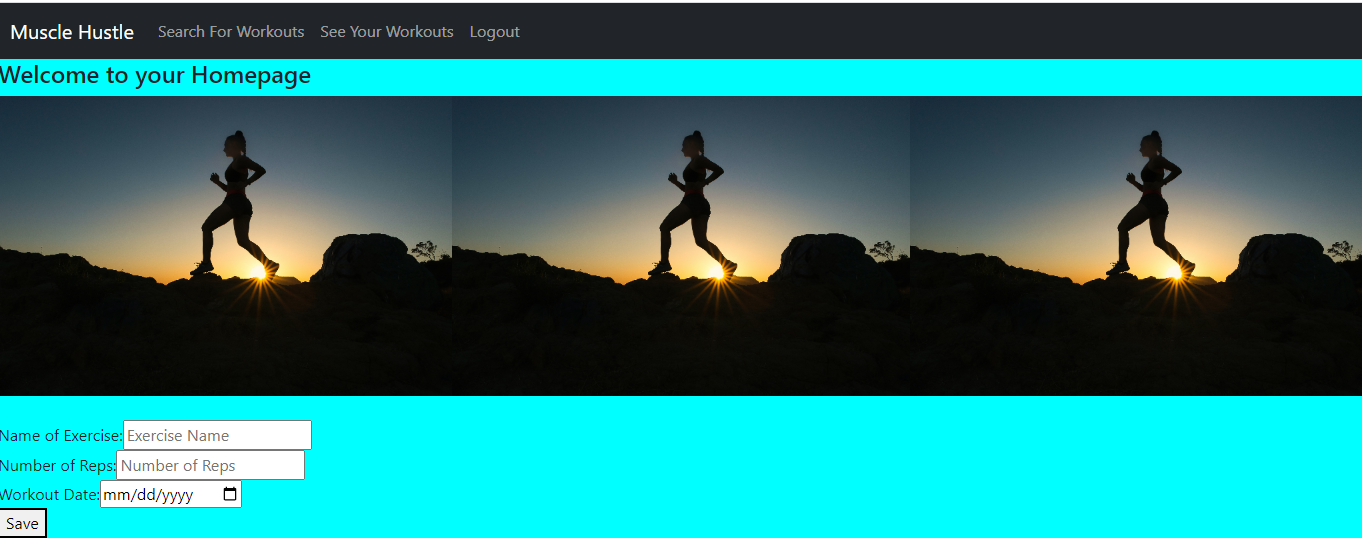
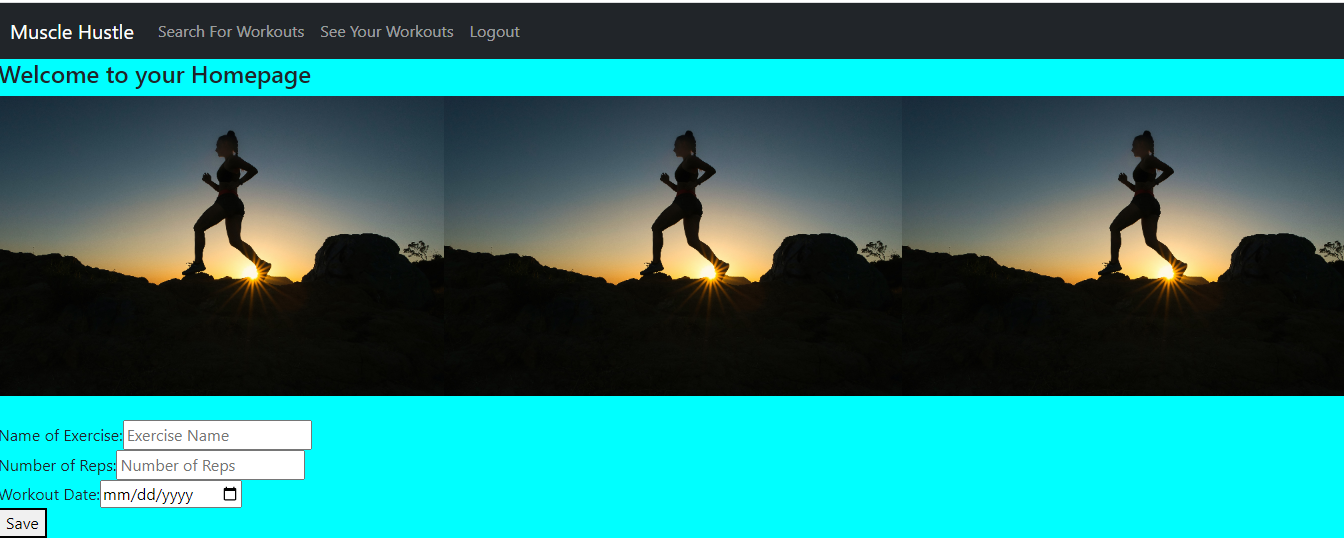
updated css file

diff --git a/src/components/Contact.js b/src/components/Contact.js
@@ -1,56 +1,113 @@
-import { useState } from "react";
+import React, { useState } from "react";
+// import { validateEmail } from "../../utils/helpers";
 
-export default function Contact() {
-  const [name, setName] = useState("");
-  const [email, setEmail] = useState("");
-  const [message, setMessage] = useState("");
-  const [nameMissing, setNameMissing] = useState(false)
+function Contact() {
+  // Hook that manages form data
+  //   initialize values of state, clear input fields on loading component
+  const [formState, setFormState] = useState({
+    name: "",
+    email: "",
+    message: "",
+  });
+
+  // Hook that manages email error message
+  const [errorMessage, setErrorMessage] = useState("");
+  // destructure formState obj into its properties
+  const { name, email, message } = formState;
+
+  function handleSubmit(e) {
+    e.preventDefault();
+
+    // state only updates if form data passed quality tests(no err message)
+    if (!errorMessage) {
+      //   async setFormState updates formState value for name
+      //   assign input field value to formState.name
+      // spread operator ...formState retains other key-value pairs in obj
+      // e.target.name is name attribute of form element, matches prop names of formState(name, email, message)
+      setFormState({ ...formState, [e.target.name]: e.target.value });
+      console.log("Form", formState);
+    }
+  }
+
+  //   sync internal state of component formState with user input from DOM
+  // onBlur or onChange event listener ensures this fires everytime keystroke typed into name field
+  // function handleChange(e) {
+  //   // if <input> is email, validate value with validateEmail, assign to isValid
+  //   if (e.target.name === "email") {
+  //     const isValid = validateEmail(e.target.value);
+  //     console.log(isValid);
+  //     // isValid conditional statement
+  //     if (!isValid) {
+  //       setErrorMessage("Your email is invalid.");
+  //     } else {
+  //       setErrorMessage("");
+  //     }
+  //     // if <input> is message and name form elements
+  //   } else {
+  //     // if blank, error message
+  //     if (!e.target.value.length) {
+  //       setErrorMessage(`${e.target.name} is required.`);
+  //     } else {
+  //       setErrorMessage("");
+  //     }
+  //   }
+
+  //   // console.log("errorMessage", errorMessage);
+  // }
+
+  // JSX DOM elements
   return (
-    <div>
-      <form>
-        <label>
-          Name:
+    <section>
+      <h1 data-testid="h1tag" className="h1tag">Contact me</h1>
+      <hr></hr>
+      <div className="email">      <h3>Email address:</h3>
+      <a href="mailto:jarmaris.chaney@yahoo.com">@jarmaris.chaney@yahoo.com</a>
+      </div>{/* <br></br>
+      <h1 data-testid="h1tag">Leave a Message</h1>
+      <form id="contact-form" onSubmit={handleSubmit}>
+        <div>
+          <label htmlFor="name">Name:</label>
           <input
-            value={name}
-            onChange={(e) => setName(e.target.value)}
-            onBlur={() => {
-            //   if (!name) {
-            //     alert("name is required");
-            //   }
-            setNameMissing(!name)
-            }}
+            type="text"
+            name="name"
+            defaultValue={name}
+            onBlur={handleChange}
           />
-          {nameMissing && "name is required"}
-        </label>
-        <label>
-          Email:
+        </div>
+        <div>
+          <label htmlFor="email">Email:</label>
           <input
-            value={email}
-            onChange={(e) => setEmail(e.target.value)}
-            onBlur={() => {
-              if (!email) {
-                alert("email is required");
-                return
-              }
-              if (!/^[a-zA-Z0-9]+@[a-zA-Z0-9]+\.[a-zA-Z0-9]+$/.test(email)) {
-                alert("email is invalid");
-              }
-            }}
+            type="email"
+            name="email"
+            defaultValue={email}
+            onBlur={handleChange}
           />
-        </label>
-        <label>
-          Message:
+        </div>
+        <div>
+          <label htmlFor="message">Message:</label>
           <textarea
-            value={message}
-            onChange={(e) => setMessage(e.target.value)}
-            onBlur={() => {
-              if (!message) {
-                alert("message is required");
-              }
-            }}
-          ></textarea>
-        </label>
-      </form>
-    </div>
+            name="message"
+            rows="5"
+            defaultValue={message}
+            onBlur={handleChange}
+          />
+        </div> */}
+        {/* if(errorMessage) {
+            <div>
+                <p className="error-text">{errorMessage}</p>
+            </div>
+        } */}
+        {/* {errorMessage && (
+          <div>
+            <p className="error-text">{errorMessage}</p>
+          </div>
+        )}
+        <button data-testid="button" type="submit">
+          Submit
+        </button>
+      </form> */}
+    </section>
   );
 }
+
+export default Contact;

diff --git a/src/App.css b/src/App.css
@@ -2,11 +2,18 @@ nav ul {
   display: flex;
   list-style: none;
   padding: 0;
+  font-weight: bold;
+  font-size: larger;
 }
 
 nav ul li {
   margin-right: 1rem;
   cursor: pointer;
+}
+
+.navbar{
+  background-color: rgb(211, 208, 208);
+  border: 2px solid black;
 }
 form, label {
   display: flex;
@@ -19,4 +26,66 @@ form, label {
 
 form {
   width: 35%;
+}
+.container {
+  background-color: powderblue;
+}
+
+.resumeContainer{
+  background-color: powderblue ;
+}
+
+.footer{
+  display: flex;
+  align-items: left;
+  justify-content: flex-start;
+  margin: 10px;
+  margin-top: 30px;
+}
+
+.footer{
+  background: none;
+}
+
+.col-6{
+  margin: 10px
+}
+.mr-sm-2{
+  border: 10px solid white;
+
+  border-style: groove;
+  border-radius: 60px;
+}
+hr{
+  width: 50%;
+}
+.h1tag{
+  display: flex;
+  justify-content: center;
+}
+.image{
+  width: 50%;
+  height: auto;
+}
+.email{
+
+  display: flex;
+  align-items: center;
+  justify-content: flex-start;
+  margin: 10px
+}
+.portfolio{
+ display: flex;
+ flex-direction: column;
+ align-items: center;
+white-space: pre;
+}
+.projectLinks{
+display: flex;
+flex-direction: row;
+justify-content: space-between;
+}
+.projectLinks{
+  font-size: larger;
+  font-weight: bold;
 }

diff --git a/src/components/Resume.js b/src/components/Resume.js
@@ -17,7 +17,7 @@ import { Col, Row } from 'react-bootstrap';
 
 function Resume() {
     return (
-        <section>
+        <section className='resumeContainer'>
             <div className="center">
 				<h1 className="page-header">My Resume</h1>
 			</div>
@@ -29,7 +29,7 @@ function Resume() {
             <Row>
 			
             <Col>
-				<h5>Front-End:</h5>
+				<h4>Front-End:</h4>
 				<ol>
 					<li>HTML5 <FaHtml5 /></li>
 					<li>CSS3 <FaCss3Alt /></li>
@@ -41,7 +41,7 @@ function Resume() {
 				<br></br>
             </Col>
             <Col>
-				<h5>Back-End:</h5>
+				<h4>Back-End:</h4>
 				<ol>
                     <li>Nodejs  <FaNode /></li>
 					<li>Expressjs <FaNpm /></li>

diff --git a/src/App.js b/src/App.js
@@ -5,6 +5,7 @@ import Contact from "./components/Contact";
 import Navbar from "./components/Navbar";
 import Portfolio from "./components/Portfolio";
 import Resume from "./components/Resume";
+import Footer from "./components/Footer";
 
 function App() {
   const [currentPage, setCurrentPage] = useState("About Me")
@@ -14,9 +15,13 @@ function App() {
       { currentPage === "About Me" && <AboutMe />}
       { currentPage === "Portfolio" && <Portfolio />}
       { currentPage === "Contact" && <Contact />}
-      { currentPage === "Resume" && <Resume />}
+      { currentPage === "Resume" && <Resume />}  
+    
+      <Footer></Footer>
     </div>
   );
+  
 }
+
 
 export default App;

diff --git a/src/components/Navbar.js b/src/components/Navbar.js
@@ -1,12 +1,14 @@
 export default function Navbar({ onClick, currentPage}) {
   return (
     <nav>
+      <div className="navbar">
       <ul>
         <li onClick={() => onClick("About Me")} className={currentPage === "About Me"?"Highlight":""}>AboutMe</li>
         <li onClick={() => onClick("Portfolio")}className={currentPage === "Portfolio"?"Highlight":""}>Portfolio</li>
         <li onClick={() => onClick("Contact")}className={currentPage === "Contact"?"Highlight":""}>Contact</li>
         <li onClick={() => onClick("Resume")}className={currentPage === "Resume"?"Highlight":""}>Resume</li>
       </ul>
+      </div>
     </nav>
   );
 }

diff --git a/src/components/Project.js b/src/components/Project.js
@@ -1,10 +1,13 @@
 export default function Project({title, image, liveLink, repoLink}) {
   return (
-    <div>
+    <div className="portfolio">
       <h1>{title}</h1>
-      <img src={image} />
+      <img src={image} className="image" />
+      <div className="projectLinks">
       <a href={liveLink}> Live Link</a>
+      <br></br>
       <a href={repoLink}> Repo Link</a>
+      </div>
     </div>
   );
 }

diff --git a/src/components/AboutMe.js b/src/components/AboutMe.js
@@ -1,4 +1,3 @@
-
 import { 
     FaHtml5, 
 	FaCss3Alt, 	 
@@ -34,10 +33,8 @@ function AboutMe() {
             JavaScript stack.
             
           </h3>
-          <br></br>
-          <br></br>
-          <br></br>
-          <h4>Developer Skills:</h4>
+          <br></br>      
+          <h3>Developer Skills:</h3>
           <h2>
             <FaHtml5 />
             <FaCss3Alt />

diff --git a/src/components/Footer.js b/src/components/Footer.js
@@ -5,7 +5,7 @@ import { Container, Row, Col } from "react-bootstrap";
 
 function Footer() {
   return (
-    <Container >
+    <Container className="footer">
     <IconContext.Provider value={{ size:"3em"}}>
     <footer>
       <Row>
